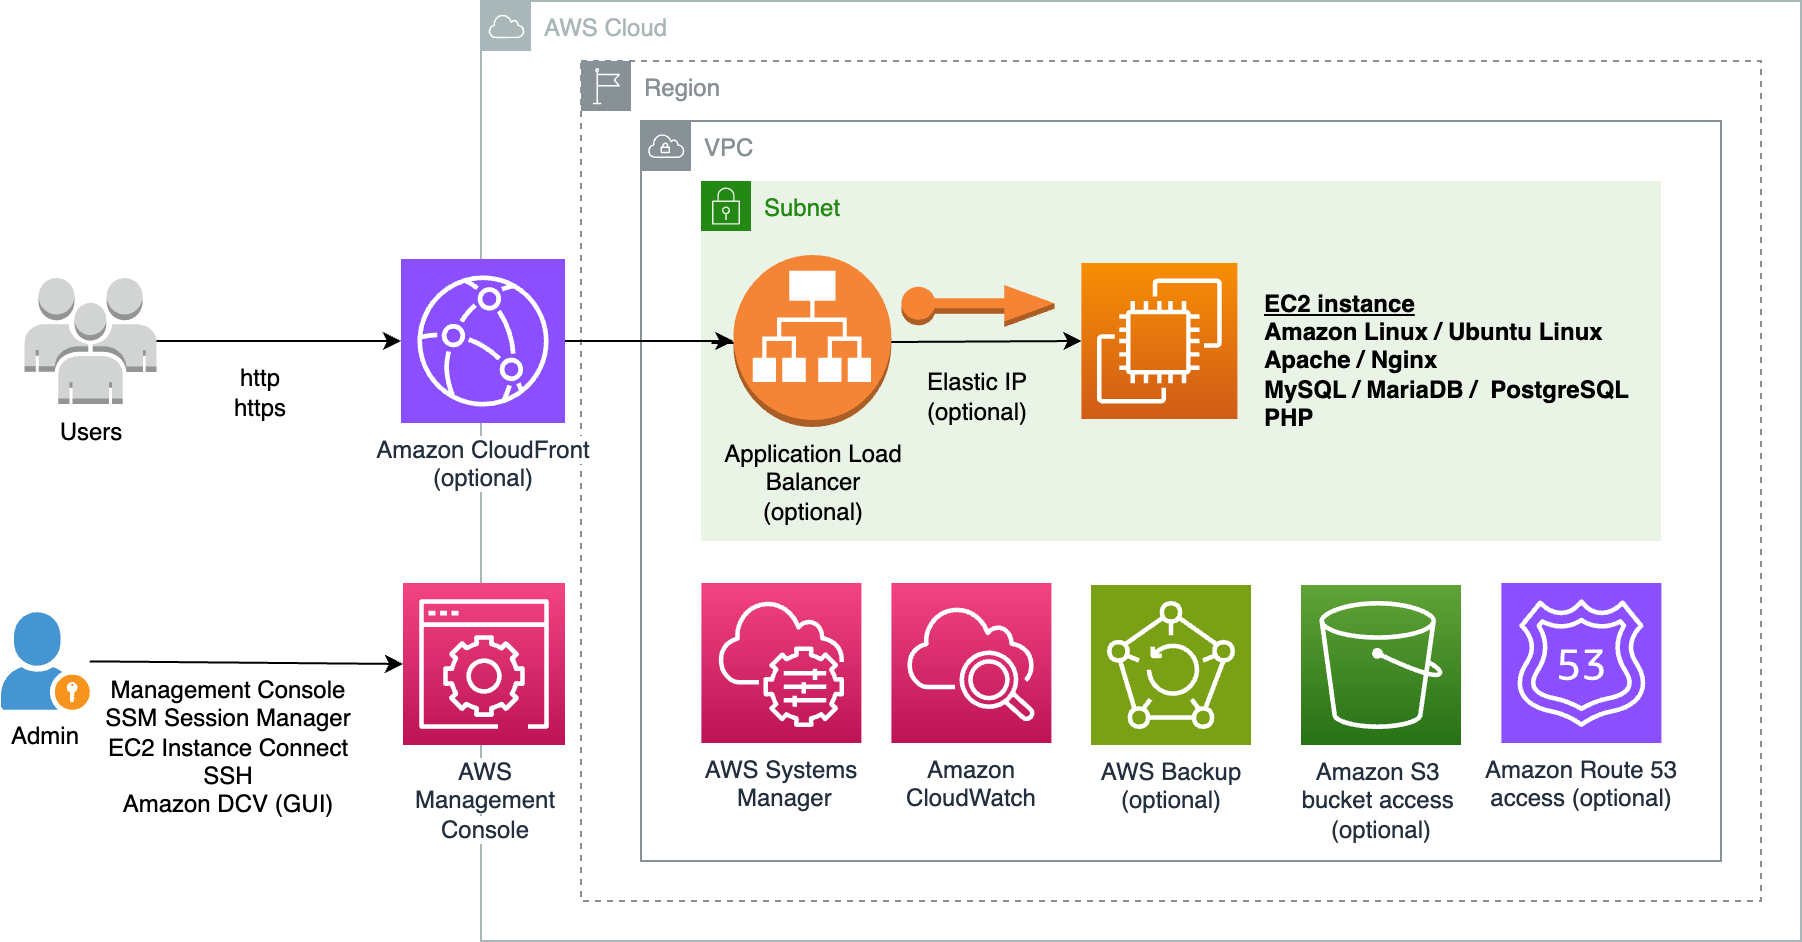
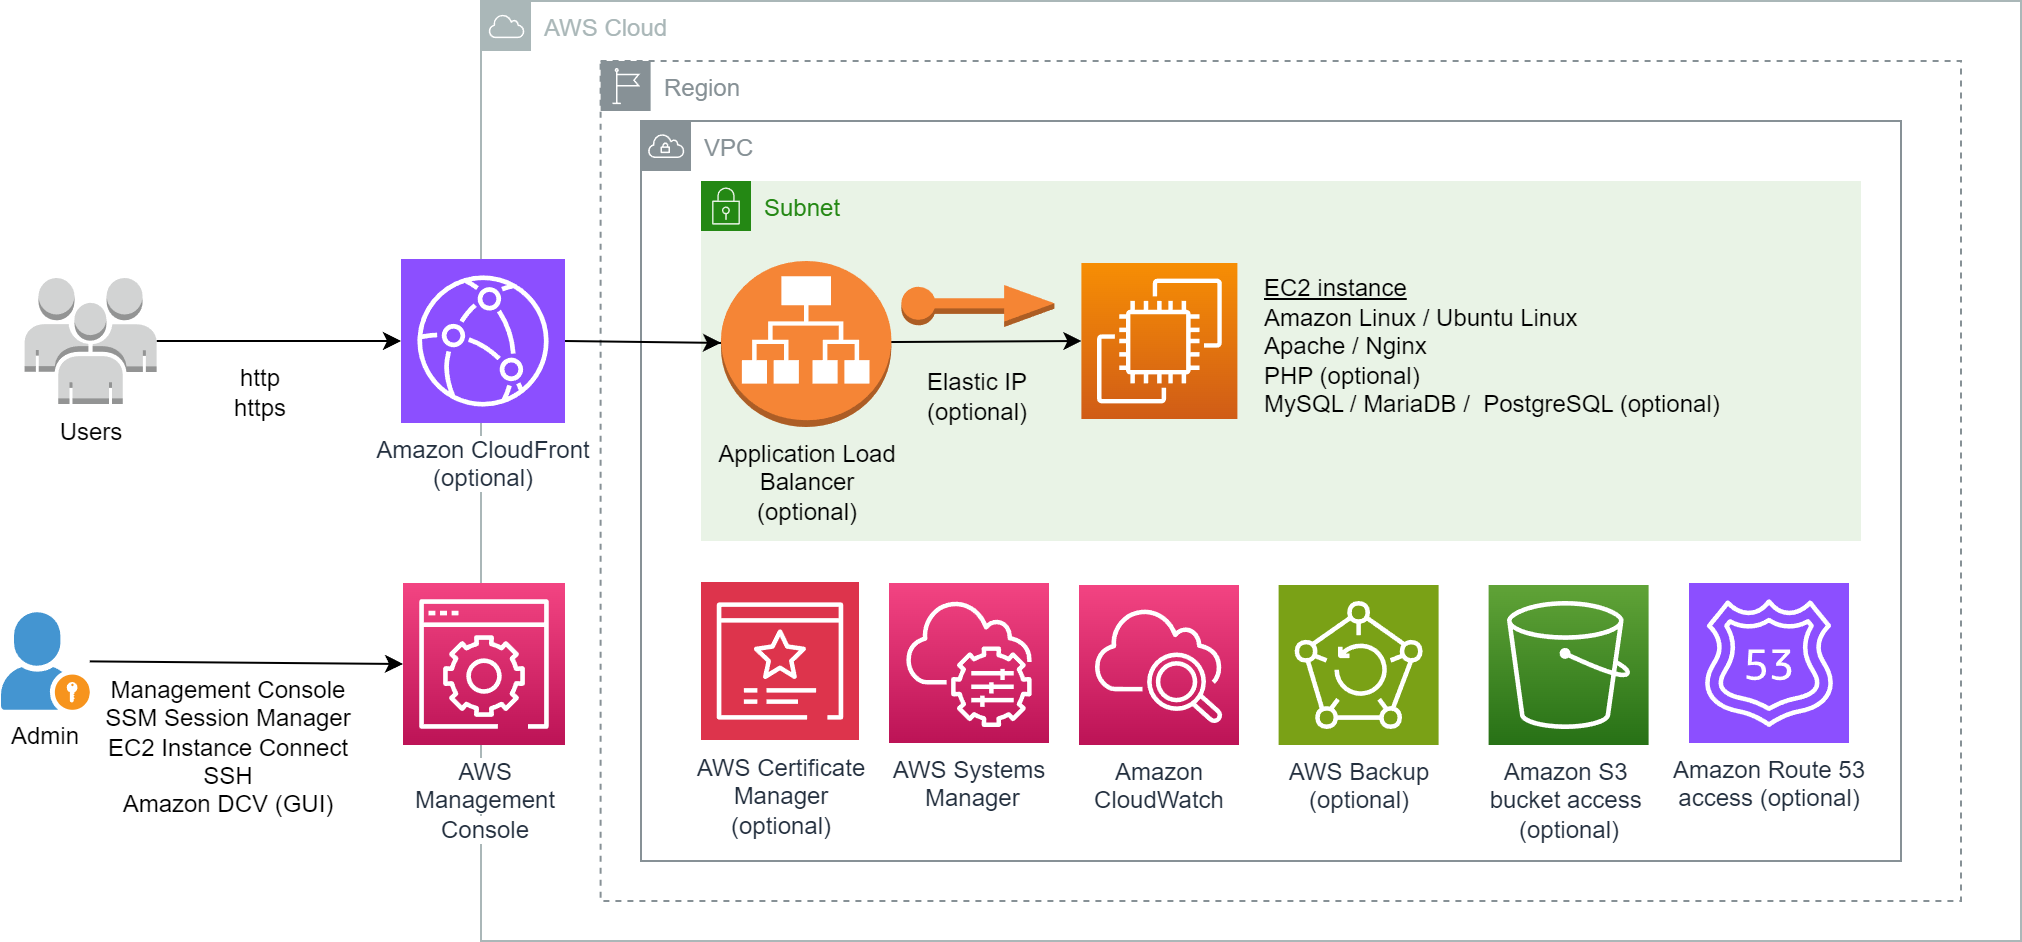
Update description

diff --git a/README.md b/README.md
@@ -1,5 +1,5 @@
 ## EC2-LAMP-Server
-[AWS CloudFormation](https://aws.amazon.com/cloudformation/) template to provision [Amazon EC2](https://aws.amazon.com/ec2/) instance with PHP, Apache/Nginx, MySQL/MariaDB/PostgreSQL, i.e. LAMP, LEMP, LAPP or LEPP stack. 
+[AWS CloudFormation](https://aws.amazon.com/cloudformation/) template to provision [Amazon EC2](https://aws.amazon.com/ec2/) web server with Apache/Nginx, PHP and MySQL/MariaDB/PostgreSQL.
 
 ## Description
 [LAMP](https://aws.amazon.com/what-is/lamp-stack/) is an acronym for the operating system, Linux; the web server, Apache; the database server, MySQL (or MariaDB); and the programming language, PHP. It is a common open source web platform for many of the web's popular applications.  Variations include LEMP which replaces web server with Nginx, LAPP which replaces database server with PostgreSQL, and LEPP which uses Nginx and PostgreSQL. According to [W3Techs](https://w3techs.com/) more than [70%](https://w3techs.com/technologies/overview/programming_language) of websites use PHP.
@@ -31,11 +31,12 @@ The template provides the following features:
   - [AWS CodeDeploy](https://aws.amazon.com/codedeploy/) agent
 - Remote Administration
   - [Amazon DCV](https://aws.amazon.com/hpc/dcv/) remote display protocol server for GUI access (optional: Amazon Linux 2/Ubuntu Linux)
-  - [SSM Session Manager](https://docs.aws.amazon.com/systems-manager/latest/userguide/session-manager.html) for secure shell access 
-  - [EC2 Instance Connect](https://docs.aws.amazon.com/AWSEC2/latest/UserGuide/connect-linux-inst-eic.html) for SSH access
+  - [SSM Session Manager](https://docs.aws.amazon.com/systems-manager/latest/userguide/session-manager.html)  secure shell access 
+  - [EC2 Instance Connect](https://docs.aws.amazon.com/AWSEC2/latest/UserGuide/connect-linux-inst-eic.html) in-browser SSH access
   - [Webmin](https://webmin.com/) web-based system administration (optional)
 - AWS Services
   - [AWS Backup](https://aws.amazon.com/backup/) to protect EC2 instance data (optional)
+  - [Application Load Balancer](https://aws.amazon.com/elasticloadbalancing/application-load-balancer/) with SSL/TLS certificate from [AWS Certificate Manager](https://aws.amazon.com/certificate-manager/) optional
   - [Amazon CloudFront](https://aws.amazon.com/cloudfront/) CDN with support for [VPC Origin](https://aws.amazon.com/blogs/networking-and-content-delivery/introducing-cloudfront-virtual-private-cloud-vpc-origins-shield-your-web-applications-from-public-internet/) (optional)
 
 ## Notice
@@ -43,7 +44,6 @@ Although this repository is released under the [MIT-0](LICENSE) license, its Clo
 [MySQL Community Edition](https://www.mysql.com/products/community/) and [Webmin](https://webmin.com/) which are licensed under [GPL](https://www.mysql.com/products/community/) and [BSD-3-Clause](https://webmin.com/about/) license respectively. Usage of Amaonz DCV indicates acceptance of [DCV EULA](https://www.amazondcv.com/eula.html).
 
 By using the template, you accept license agreements of all software that is installed in the EC2 instance. 
-
 
 ### Requirements
 - EC2 instance must be provisioned in a subnet with IPv4 internet connectivity. 
@@ -56,7 +56,7 @@ Download .yaml file for the desired operating system ([Amazon Linux 2](https://g
 Login to AWS [CloudFormation console](https://console.aws.amazon.com/cloudformation/home#/stacks/create/template). Choose **Create Stack**, **Upload a template file**, **Choose File**, select your .YAML file and choose **Next**. Enter a **Stack name** and specify parameters values.
 
 EC2 Instance
-- `ec2Name`: EC2 instance name 
+- `ec2Name`: EC2 instance name
 - `ec2KeyPair`: [EC2 key pair](https://docs.aws.amazon.com/AWSEC2/latest/UserGuide/ec2-key-pairs.html) name. [Create key pair](https://docs.aws.amazon.com/AWSEC2/latest/UserGuide/create-key-pairs.html) if necessary
 - `processorArchitecture` / `osVersion` : Intel/AMD x86_64 or Graviton arm64. Default is `Graviton (arm64)`.
 - `instanceType`: EC2 [instance types](https://aws.amazon.com/ec2/instance-types/). Do ensure type matches processor architecture. Default is `t4g.xlarge` [burstable instance type](https://aws.amazon.com/ec2/instance-types/t4/). For best performance, consider newer [M7g](https://aws.amazon.com/ec2/instance-types/m7g/) and [M8g](https://aws.amazon.com/ec2/instance-types/m8g/) [Graviton](https://aws.amazon.com/ec2/graviton/) instance
@@ -77,10 +77,10 @@ Application Load Balancer (ALB)
 *Select a subnet even if `enableALB` is `No`*
 
 ALB HTTPS listener
-- `albCertificateArn`: Certificate ARN for ALB [HTTPS listener](https://docs.aws.amazon.com/elasticloadbalancing/latest/application/create-https-listener.html). Leave blank not to create HTTPS listener
+- `albCertificateArn`: [AWS Certificate Manager (ACM)](https://aws.amazon.com/certificate-manager/) [certificate ARN](https://docs.aws.amazon.com/acm/latest/userguide/gs-acm-describe.html) for ALB [HTTPS listener](https://docs.aws.amazon.com/elasticloadbalancing/latest/application/create-https-listener.html). Leave blank not to create HTTPS listener
 - `albSecurityPolicy`: [Security policy](https://docs.aws.amazon.com/elasticloadbalancing/latest/application/create-https-listener.html#describe-ssl-policies) for HTTPS listener. Default is `ELBSecurityPolicy-TLS13-1-2-2021-06`
 - `albRedirectHTTPtoHTTPS`: option to redirect HTTP requests to HTTPS. Default is `Yes`
-- `albHstsHeaderValue`: [HSTS (HTTP Strict Transport Security)](https://cheatsheetseries.owasp.org/cheatsheets/HTTP_Strict_Transport_Security_Cheat_Sheet.html) response header value to send. Do not specify a value not to send HSTS header. Default is `max-age=31536000; includeSubDomains`
+- `albHstsHeaderValue`: [HSTS (HTTP Strict Transport Security)](https://cheatsheetseries.owasp.org/cheatsheets/HTTP_Strict_Transport_Security_Cheat_Sheet.html) response header value to send. Use blank value not to send HSTS header. Default is `max-age=31536000; includeSubDomains`
 
 *The above options only apply if `enableALB` is `Yes`*
 
@@ -164,12 +164,10 @@ Based on public articles about PHP performance (many thanks to the authors), the
 - Serialisation (igbinary,msgpack) and compression (lzf,zstd,lz4) extensions to reduce Redis/Memcached network traffic: from [Strategies for Reducing Big Redis Traffic in Laravel](https://world.hey.com/otar/strategies-for-reducing-big-redis-traffic-in-laravel-a168f96a)
 - PHP [OPcache file cache](https://www.php.net/manual/en/opcache.configuration.php#ini.opcache.file-cache) configured as per [PHP Opcache file cache](https://patrickkerrigan.uk/blog/php-opcache-file-cache/) but not enabled. To enable, edit `/etc/php.d/10-opcache.ini` (Amazon Linux) or `/etc/php/`*`phpVersion`*`/fpm/php.ini` (Ubuntu) file to uncomment the line beginning with `opcache.file_cache=/var/www/.opcache` and restart php-fpm.
 
-
 ## Obtaining certificate for HTTPS
-Amazon CloudFront (`enableCloudFront`) [supports](https://docs.aws.amazon.com/AmazonCloudFront/latest/DeveloperGuide/using-https-viewers-to-cloudfront.html) HTTPS. You can use [AWS Certificate Manager](https://aws.amazon.com/certificate-manager/) to [request](https://docs.aws.amazon.com/acm/latest/userguide/acm-public-certificates.html) a public certificate for your own domain and [associate](https://docs.aws.amazon.com/AmazonCloudFront/latest/DeveloperGuide/cnames-and-https-requirements.html) it with your CloudFront distribution. 
+Amazon CloudFront (`enableCloudFront`) [supports](https://docs.aws.amazon.com/AmazonCloudFront/latest/DeveloperGuide/using-https-viewers-to-cloudfront.html) HTTPS. You can use [AWS Certificate Manager](https://aws.amazon.com/certificate-manager/) to [request](https://docs.aws.amazon.com/acm/latest/userguide/acm-public-certificates.html) a public certificate for your own domain and [associate](https://docs.aws.amazon.com/AmazonCloudFront/latest/DeveloperGuide/cnames-and-https-requirements.html) it with your CloudFront distribution.
 
 The EC2 instance uses a self-signed certificate for HTTPS. You can use [Certbot](https://certbot.eff.org/pages/about) to obtain and install [Let's Encrypt](https://letsencrypt.org/) certificate on your web server.
-
 
 ### Certbot prerequisites
 Ensure you have a domain name whose DNS entry resolves to your EC2 instance IP address. If you do not have a domain, you can [register a new domain](https://docs.aws.amazon.com/Route53/latest/DeveloperGuide/domain-register.html#domain-register-procedure-section) using [Amazon Route 53](https://aws.amazon.com/route53/) and [create a DNS A record](https://docs.aws.amazon.com/Route53/latest/DeveloperGuide/resource-record-sets-creating.html).
@@ -244,10 +242,13 @@ If you enable AWS Backup, you can restore your [EC2 instance](https://docs.aws.a
 
 ### Securing
 To futher secure your EC2 instance, you may want to
-- Use DCV (`installDCV`) [native clients](https://www.amazondcv.com/) for remote access, and disable web browser client by removing `nice-dcv-web-viewer` package
+- For DCV (`installDCV`), use [native clients](https://www.amazondcv.com/) for remote access, and disable web browser client by removing `nice-dcv-web-viewer` package
 - Restrict remote administration access to your IP address only (`ingressIPv4` and `ingressIPv6`)
-- Disable SSH access from public internet (`allowSSHport`). Use [EC2 Instance Connect](https://docs.aws.amazon.com/AWSEC2/latest/UserGuide/ec2-instance-connect-methods.html#ec2-instance-connect-connecting-console) or [SSM Session Manager](https://docs.aws.amazon.com/systems-manager/latest/userguide/session-manager-working-with-sessions-start.html#start-ec2-console) for in-browser terminal access. If you have [AWS CLI](https://docs.aws.amazon.com/cli/latest/userguide/getting-started-install.html) and [Session Manager plugin for the AWS CLI](https://docs.aws.amazon.com/systems-manager/latest/userguide/session-manager-working-with-install-plugin.html) installed, you can start a session using [AWS CLI](https://docs.aws.amazon.com/systems-manager/latest/userguide/session-manager-working-with-sessions-start.html#sessions-start-cli) or [SSH](https://docs.aws.amazon.com/systems-manager/latest/userguide/session-manager-working-with-sessions-start.html#sessions-start-ssh)
-- Use AWS Backup (`enableBackup`). Enable [AWS Backup Vault Lock](https://aws.amazon.com/blogs/storage/enhance-the-security-posture-of-your-backups-with-aws-backup-vault-lock/) to prevent your backups from accidental or malicious deletion, and for [protection from ransomware](https://aws.amazon.com/blogs/security/updated-ebook-protecting-your-aws-environment-from-ransomware/)
+- Disable SSH access from public internet (`allowSSHport`)
+  - Use [EC2 Instance Connect](https://docs.aws.amazon.com/AWSEC2/latest/UserGuide/ec2-instance-connect-methods.html#ec2-instance-connect-connecting-console) or [SSM Session Manager](https://docs.aws.amazon.com/systems-manager/latest/userguide/session-manager-working-with-sessions-start.html#start-ec2-console) for in-browser terminal access, or 
+  - Start a session using [AWS CLI](https://docs.aws.amazon.com/systems-manager/latest/userguide/session-manager-working-with-sessions-start.html#sessions-start-cli) or [SSH](https://docs.aws.amazon.com/systems-manager/latest/userguide/session-manager-working-with-sessions-start.html#sessions-start-ssh) with [Session Manager plugin for the AWS CLI](https://docs.aws.amazon.com/systems-manager/latest/userguide/session-manager-working-with-install-plugin.html)
+- Use AWS Backup (`enableBackup`)
+  - Enable [AWS Backup Vault Lock](https://aws.amazon.com/blogs/storage/enhance-the-security-posture-of-your-backups-with-aws-backup-vault-lock/) to prevent your backups from accidental or malicious deletion, and for [protection from ransomware](https://aws.amazon.com/blogs/security/updated-ebook-protecting-your-aws-environment-from-ransomware/)
 - Deploy EC2 instance in a private subnet
   - Use [Application Load Balancer](https://aws.amazon.com/elasticloadbalancing/application-load-balancer/) (`enableALB`) or  [Amazon CloudFront](https://aws.amazon.com/cloudfront/) (`enableCloudFront`) with [VPC Origin](https://aws.amazon.com/blogs/aws/introducing-amazon-cloudfront-vpc-origins-enhanced-security-and-streamlined-operations-for-your-applications/) for public internet access
   -  Use [AWS Certificate Manager](https://aws.amazon.com/certificate-manager/) to [request a public HTTPS certificate](https://docs.aws.amazon.com/acm/latest/userguide/acm-public-certificates.html) and associate it with your [Application Load Balancer](https://repost.aws/knowledge-center/associate-acm-certificate-alb-nlb) or [CloudFront distribution](https://docs.aws.amazon.com/AmazonCloudFront/latest/DeveloperGuide/cnames-and-https-requirements.html)
